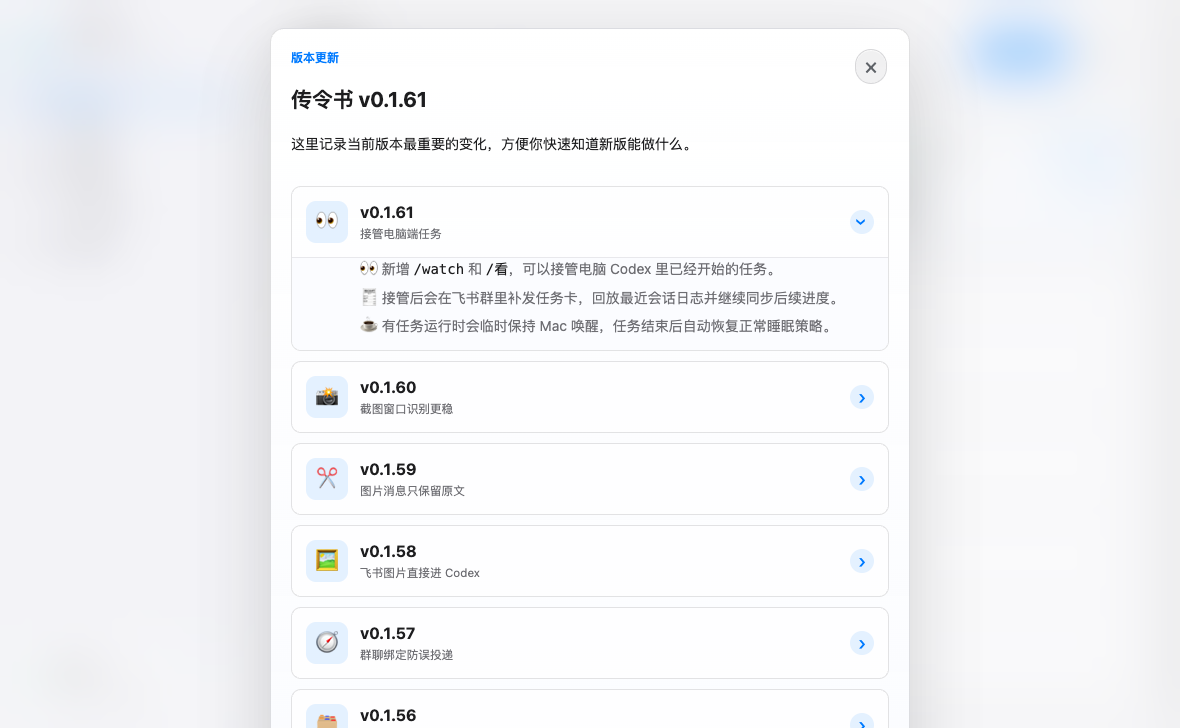
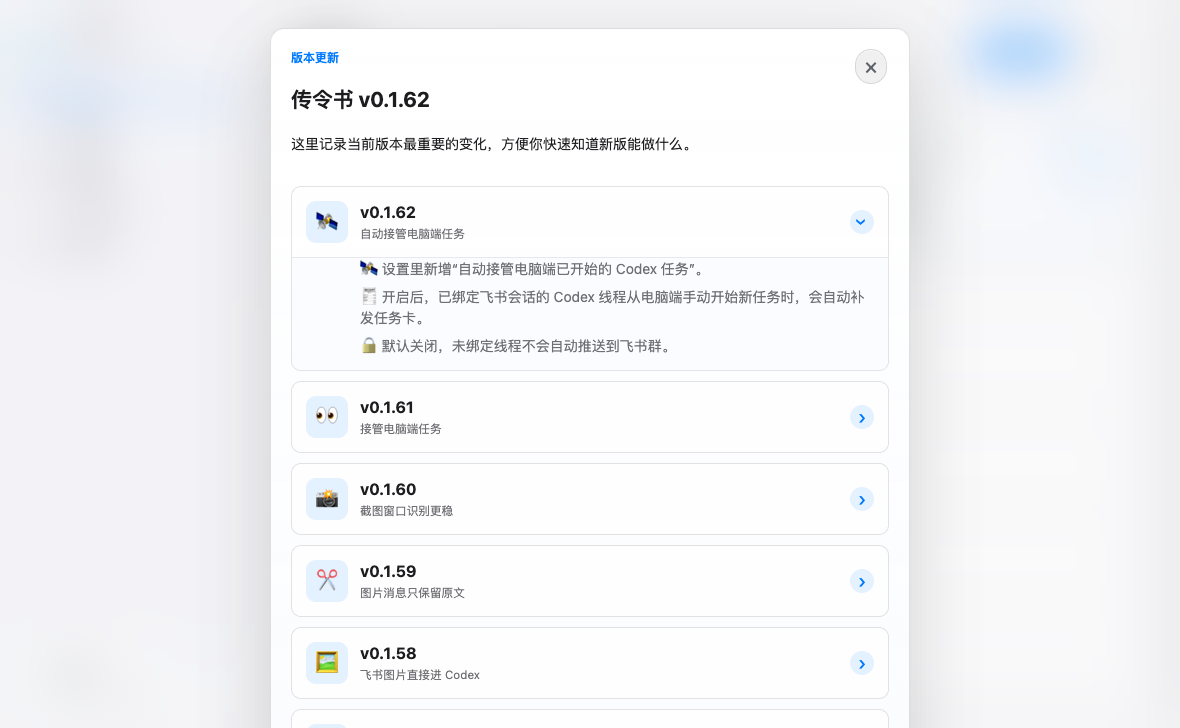
Add automatic Codex task takeover

diff --git a/src/renderer/index.html b/src/renderer/index.html
@@ -224,6 +224,10 @@
               <span>收到飞书消息时自动打开对应 Codex 线程</span>
             </label>
             <label class="checkbox-row">
+              <input id="autoWatchCodexUiTasks" type="checkbox">
+              <span>自动接管电脑端已开始的 Codex 任务</span>
+            </label>
+            <label class="checkbox-row">
               <input id="restoreClipboardAfterPaste" type="checkbox">
               <span>界面输入后恢复剪贴板</span>
             </label>
@@ -560,6 +564,20 @@
           <button id="releaseNotesClose" type="button" class="icon-close" aria-label="关闭">×</button>
         </div>
         <div class="release-notes-list">
+          <details class="release-note-version">
+            <summary>
+              <span class="release-note-icon" aria-hidden="true">🛰</span>
+              <span>
+                <strong>v0.1.62</strong>
+                <small>自动接管电脑端任务</small>
+              </span>
+            </summary>
+            <div class="release-note-body">
+              <p>🛰 设置里新增“自动接管电脑端已开始的 Codex 任务”。</p>
+              <p>🧾 开启后，已绑定飞书会话的 Codex 线程从电脑端手动开始新任务时，会自动补发任务卡。</p>
+              <p>🔒 默认关闭，未绑定线程不会自动推送到飞书群。</p>
+            </div>
+          </details>
           <details class="release-note-version">
             <summary>
               <span class="release-note-icon" aria-hidden="true">👀</span>

diff --git a/src/renderer/app.js b/src/renderer/app.js
@@ -60,6 +60,7 @@ function getSettingsForm() {
     autoStart: $('#autoStart').checked,
     mirrorExistingThread: $('#mirrorExistingThread').checked,
     openCodexThreadOnMessage: $('#openCodexThreadOnMessage').checked,
+    autoWatchCodexUiTasks: $('#autoWatchCodexUiTasks').checked,
     restoreClipboardAfterPaste: $('#restoreClipboardAfterPaste').checked
   };
 }
@@ -79,6 +80,7 @@ function fillSettings(state) {
   $('#autoStart').checked = Boolean(state.settings.autoStart);
   $('#mirrorExistingThread').checked = state.settings.mirrorExistingThread !== false;
   $('#openCodexThreadOnMessage').checked = state.settings.openCodexThreadOnMessage !== false;
+  $('#autoWatchCodexUiTasks').checked = Boolean(state.settings.autoWatchCodexUiTasks);
   $('#restoreClipboardAfterPaste').checked = state.settings.restoreClipboardAfterPaste !== false;
 }
 

diff --git a/README.md b/README.md
@@ -38,6 +38,7 @@
 - Codex 界面里出现批准请求、输入请求或选项时，任务卡会立即切换为“等待你处理”；选择题可直接在飞书卡片里点选项继续发送到 Codex。
 - 任务卡支持按钮操作：刷新状态、打开本机 Codex 线程、重新发送已完成/失败任务、追加队首、清空队列；点击“刷新状态”时会额外截取当前 Codex 线程窗口并发送到飞书。
 - 支持接管电脑端已开始的任务：在飞书里发送 `/watch` 或 `/看`，会补发任务卡并继续同步当前 Codex 线程进度。
+- 支持自动接管电脑端任务：在设置里开启后，已绑定飞书会话的 Codex 线程如果从电脑端手动开始新任务，会自动补发任务卡。
 - 接管或运行任务时会临时保持 Mac 唤醒，任务结束后自动恢复系统睡眠策略。
 - 支持飞书控制面板 `/panel`：查看当前会话绑定、下拉选择项目、刷新面板、查看当前项目状态。
 - app-server 模式支持按项目维度排队；Codex 界面输入模式下，同群同线程的新消息会直接继续发送到已绑定 Codex 线程，不再进入应用自己的任务队列。
@@ -81,6 +82,8 @@
 如果你通常是先发图片/文件、再补文字说明，可以直接按这个顺序发送。单独发送附件时，应用会先暂存 5 分钟，不会立刻发给 Codex；下一条普通文字会和暂存附件合并成同一条任务。也可以发送 `/send-attachments` 立即发送暂存附件，或发送 `/cancel-attachments` 取消暂存。
 
 如果任务是你在电脑 Codex 里手动开始的，飞书群里还没有任务卡，可以在离开电脑前发送 `/watch` 或 `/看`。当前群已经绑定项目时可以不带参数；也可以发送 `/watch codex_thread_id` 或 `/看 codex_thread_id` 精确接管某个线程。传令书不会向 Codex 发送新消息，只会补发任务卡、回放最近会话日志并继续同步后续进度。
+
+如果想省掉手动发送 `/watch`，可以在设置里开启“自动接管电脑端已开始的 Codex 任务”。这个开关默认关闭；开启后只对已经绑定飞书群/会话的 Codex 线程生效，未绑定线程不会自动推送到飞书。
 
 在 Codex 界面输入模式下，群聊里继续发送的新消息会直接投递到当前绑定的 Codex 线程，传令书不会再提示“排队中”。如果使用 app-server 模式，同一项目运行中收到的新消息仍会进入项目队列，当前任务结束后自动处理队首。不同项目的队列相互独立，可以同时处理。
 
